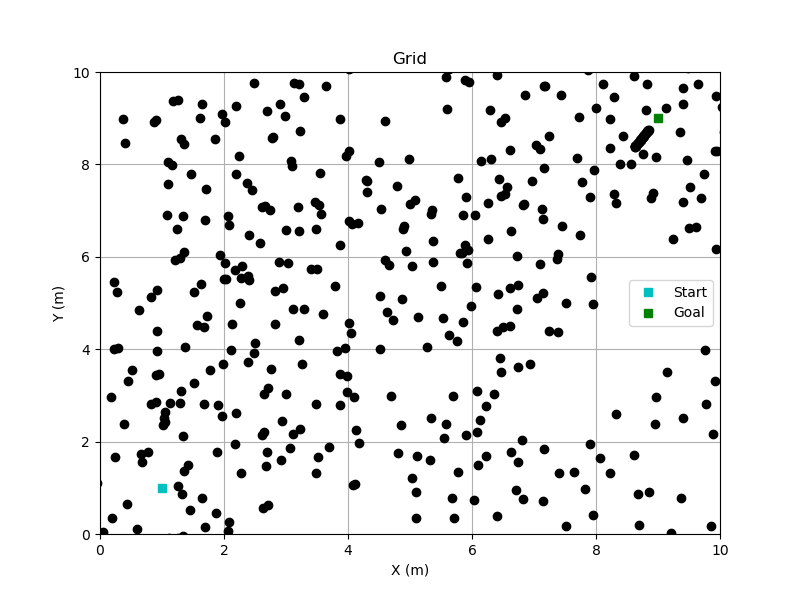
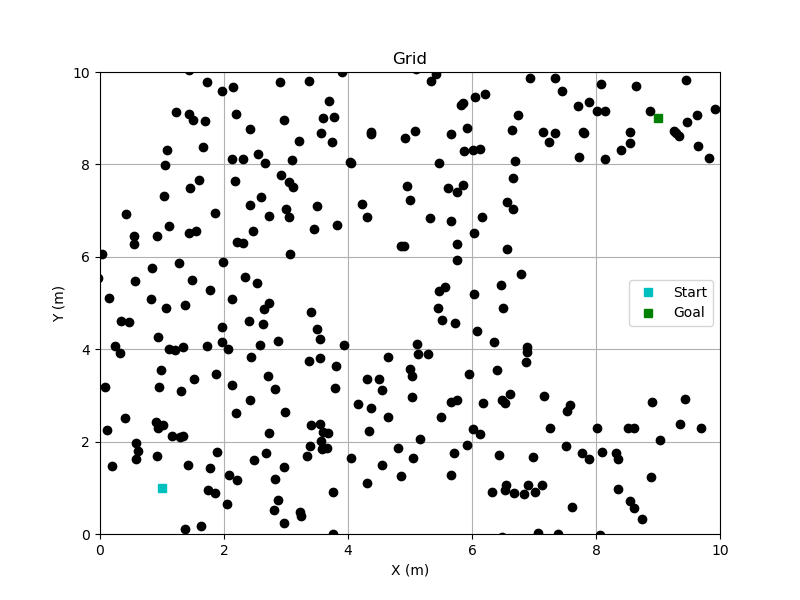
energy-cost A*

diff --git a/path_planner.py b/path_planner.py
@@ -5,10 +5,11 @@ The path planner, with multiple options for heuristics.
 import numpy as np
 import heapq
 from environment import Environment
-import matplotlib as plt
+import matplotlib.pyplot as plt
 
 class PathPlanner:
     def __init__(self, env:Environment):
+        self.bounds = (env.xmin, env.xmax, env.ymin, env.ymax)
         self.holds = env.holds
         self.range = env.spacing + env.grasp_radius
         self.start_idx = env.start_idx
@@ -23,7 +24,9 @@ class PathPlanner:
     def edge_cost(self, prev_idx, curr_idx, next_idx, energy=True):
         # simplified torque-based model of simple pendulum
         g = 9.81
-        m = 1.0
+        m = 10.0
+        alpha = 0.0
+        beta = 0.0
         prev_pos = np.array(self.holds[prev_idx].position)
         curr_pos = np.array(self.holds[curr_idx].position)
         next_pos = np.array(self.holds[next_idx].position)
@@ -46,7 +49,7 @@ class PathPlanner:
         # gravitational potential energy
         delta_y = next_pos[1] - prev_pos[1]
         delta_E_g = m * g * delta_y
-        return tau_prev + tau_next + delta_E_g
+        return tau_prev + tau_next + beta * delta_E_g + alpha * L_next
     
     def get_neighbors(self, curr_idx):
         curr_pos = np.array(self.holds[curr_idx].position)
@@ -62,10 +65,14 @@ class PathPlanner:
     def A_star(self, energy=True):
         open_set = []   # priority queue with (cost, index)
         heapq.heappush(open_set, (0, self.start_idx))
+        closed_set = set()
         g_costs = {self.start_idx: 0}
         parent = {}
         while open_set:
             _, curr_idx = heapq.heappop(open_set)
+            if curr_idx in closed_set:
+                continue
+            closed_set.add(curr_idx)
             if curr_idx == self.goal_idx:
                 path = [curr_idx]
                 while curr_idx in parent:
@@ -74,6 +81,8 @@ class PathPlanner:
                 path.reverse()
                 return path
             for neighbor_idx in self.get_neighbors(curr_idx):
+                if neighbor_idx in closed_set:
+                    continue
                 new_g = g_costs[curr_idx] + self.edge_cost(curr_idx, neighbor_idx, energy)
                 if neighbor_idx not in g_costs or new_g < g_costs[neighbor_idx]:
                     g_costs[neighbor_idx] = new_g
@@ -107,8 +116,8 @@ class PathPlanner:
                 path_positions = [env.holds[idx].position for idx in path]
                 x_coords, y_coords = zip(*path_positions)
                 ax.plot(x_coords, y_coords, linestyle='-', linewidth=2, color=colors[idx % len(colors)], label=label)
-        ax.set_xlim(self.xmin, self.xmax)
-        ax.set_ylim(self.ymin, self.ymax)
+        ax.set_xlim(self.bounds[0], self.bounds[1])
+        ax.set_ylim(self.bounds[2], self.bounds[3])
         ax.set_title("A* Paths")
         ax.set_xlabel("X (m)")
         ax.set_ylabel("Y (m)")
@@ -120,7 +129,7 @@ class PathPlanner:
 if __name__ == "__main__":
     # plot A* with different edge costs
     env = Environment()
-    env.generate_static_random((0, 5, 0, 5), (1, 1), (4, 4), 500, 1, 0.99)
+    env.generate_static_random((0, 10, 0, 10), (1, 1), (9, 9), 500, 1, 0.99)
     planner = PathPlanner(env)
     path_energy = planner.A_star()
     path_distance = planner.A_star(False)

diff --git a/environment.py b/environment.py
@@ -192,7 +192,7 @@ if __name__ == "__main__":
     # env.holds[3].is_latched = True
     # env.holds[4].is_latched = True
     # path = "./env_plot/monkey_bar_test.png"
-    reachable = env.generate_static_random((0, 10, 0, 10), (1, 1), (9, 9), 1000, 1)
+    reachable = env.generate_static_random((0, 10, 0, 10), (1, 1), (9, 9), 500, 1, 0.99)
     # reachable = env.generate_static_random((0, 5, 0, 5), (1, 1), (4, 4), 500, 1, 0.99)
     print(reachable)
     path = "./env_plot/static_random_test.png"
